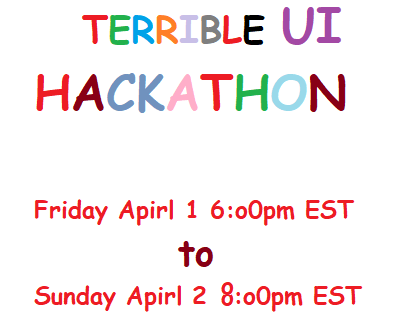
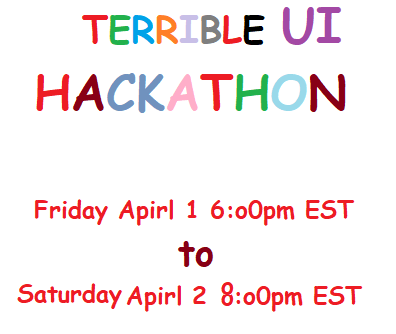
center image, update text

Changed region(s): [[0.0303, 0.8383, 0.303, 0.9281]]

diff --git a/README.md b/README.md
@@ -1,14 +1,17 @@
 # Past
 
--   nothing here yet
+-   Nothing here yet
 
 # Upcoming
 
-![pic](./assets/terrible_ui.png)
+<p align="center">
+  <img src="./assets/terrible_ui.png" />
+</p>
 
-## Terrible UI Hackathon #1 (April 1 6:00PM EST)
+## Terrible UI Hackathon #1
 
 ```
+When: 4/01/22 @ 6:00PM EST
 Challenge: Build the worst Date/Time Selector
 ```
 
@@ -20,21 +23,23 @@ The hackathon is hosted on Discord [[Invite Link](https://discord.com/invite/kqt
 
 ## Schedule
 
-### Friday @ 6:00pm
+The hackathon starts Friday 4/1/22 at 6:00pm. All submissions are due Saturday 4/2/22 6:00pm.
 
-    Hop on discord, introduce yourselves, find a partner or work solo.
+#### Friday @ 6:00pm
 
-### Next 24 hours
+    Hop on discord, introduce yourselves, work solo or with a friend.
+
+#### Next 24 hours
 
     GET HACKING
 
-### Saturday @ 6:00pm
+#### Saturday @ 6:00pm
 
     Submit your solution for judging.
 
-### Saturday @ 8:00pm
+#### Saturday @ 8:00pm
 
-    Join the Discord to vote on winners!
+    Join the live stream on Discord to see the winners.
 
 ## Submissions
 

diff --git a/submissions/terrible_ui_1/README.md b/submissions/terrible_ui_1/README.md
@@ -1,6 +1,7 @@
-## Terrible UI Hackathon #1 (April 1 6:00PM EST)
+## Terrible UI Hackathon #1
 
 ```
+When: 4/01/22 @ 6:00PM EST
 Challenge: Build the worst Date/Time Selector
 ```
 
@@ -12,21 +13,23 @@ The hackathon is hosted on Discord [[Invite Link](https://discord.com/invite/kqt
 
 ## Schedule
 
-### Friday @ 6:00pm
+The hackathon starts Friday 4/1/22 at 6:00pm. All submissions are due Saturday 4/2/22 6:00pm.
 
-    Hop on discord, introduce yourselves, find a partner or work solo.
+#### Friday @ 6:00pm
 
-### Next 24 hours
+    Hop on discord, introduce yourselves, work solo or with a friend.
+
+#### Next 24 hours
 
     GET HACKING
 
-### Saturday @ 6:00pm
+#### Saturday @ 6:00pm
 
     Submit your solution for judging.
 
-### Saturday @ 8:00pm
+#### Saturday @ 8:00pm
 
-    Join the Discord to vote on winners!
+    Join the live stream on Discord to see the winners.
 
 ## Submissions
 
